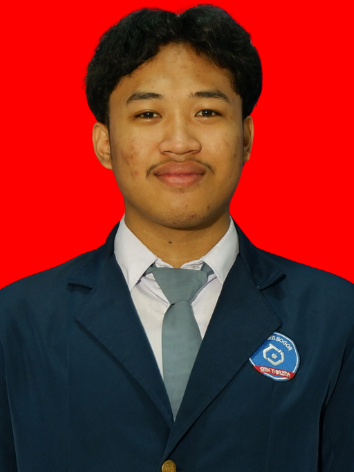
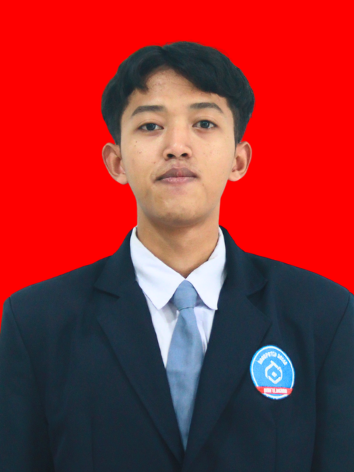
edit upload foto

diff --git a/apps/siswa/edit.php b/apps/siswa/edit.php
@@ -32,16 +32,40 @@ if (isset($_POST['edit_siswa'])) {
         if (!empty($foto_baru)) {
             $x = explode('.', $foto_baru);
             $ekstensi = strtolower(end($x));
-            $ukuran = $_FILES['foto_baru']['size'];
-            $file_tmp = $_FILES['foto_baru']['tmp_name'];
+            $ukuran = $_FILES['foto_baru']['size'] ?? 0;
+            $file_tmp = $_FILES['foto_baru']['tmp_name'] ?? '';
+            $file_error = $_FILES['foto_baru']['error'] ?? UPLOAD_ERR_NO_FILE;
 
-            if (in_array($ekstensi, $ekstensi_diperbolehkan) === true) {
-                if (move_uploaded_file($file_tmp, 'foto/' . $foto_baru)) {
-                    if ($foto_saat_ini != 'foto_default.png' && file_exists("foto/" . $foto_saat_ini)) {
-                        unlink("foto/" . $foto_saat_ini);
-                    }
+            if (!in_array($ekstensi, $ekstensi_diperbolehkan)) {
+                mysqli_query($kon, "ROLLBACK");
+                header("Location:../../index.php?page=siswa&edit=gagal_format");
+                exit;
+            }
 
-                    $sql = "UPDATE tbl_siswa SET
+            if ($file_error !== UPLOAD_ERR_OK || !is_uploaded_file($file_tmp)) {
+                mysqli_query($kon, "ROLLBACK");
+                header("Location:../../index.php?page=siswa&edit=gagal_upload");
+                exit;
+            }
+
+            $upload_dir = __DIR__ . '/foto/';
+            if (!is_dir($upload_dir)) {
+                mkdir($upload_dir, 0755, true);
+            }
+
+            // Buat nama file unik untuk mencegah overwrite
+            $safe_name = preg_replace('/[^A-Za-z0-9._-]/', '_', basename($foto_baru));
+            $foto_baru_unik = time() . '_' . $safe_name;
+
+            $dest = $upload_dir . $foto_baru_unik;
+            if (move_uploaded_file($file_tmp, $dest)) {
+                // Hapus file lama jika bukan default
+                $old_path = __DIR__ . '/foto/' . $foto_saat_ini;
+                if ($foto_saat_ini != 'foto_default.png' && file_exists($old_path)) {
+                    @unlink($old_path);
+                }
+
+                $sql = "UPDATE tbl_siswa SET
                         nama='$nama',
                         perusahaan='$perusahaan',
                         jurusan='$jurusan',
@@ -50,15 +74,12 @@ if (isset($_POST['edit_siswa'])) {
                         akhir_pkl='$akhir_pkl',
                         alamat='$alamat',
                         no_telp='$no_telp',
-                        foto='$foto_baru'
+                        foto='$foto_baru_unik'
                         WHERE id_siswa=$id_siswa";
-                } else {
-                    mysqli_query($kon, "ROLLBACK");
-                    die("Gagal mengupload foto baru.");
-                }
             } else {
                 mysqli_query($kon, "ROLLBACK");
-                die("Format file foto tidak diperbolehkan.");
+                header("Location:../../index.php?page=siswa&edit=gagal_upload");
+                exit;
             }
         } else {
             // Jika tidak upload foto baru, update tanpa foto
